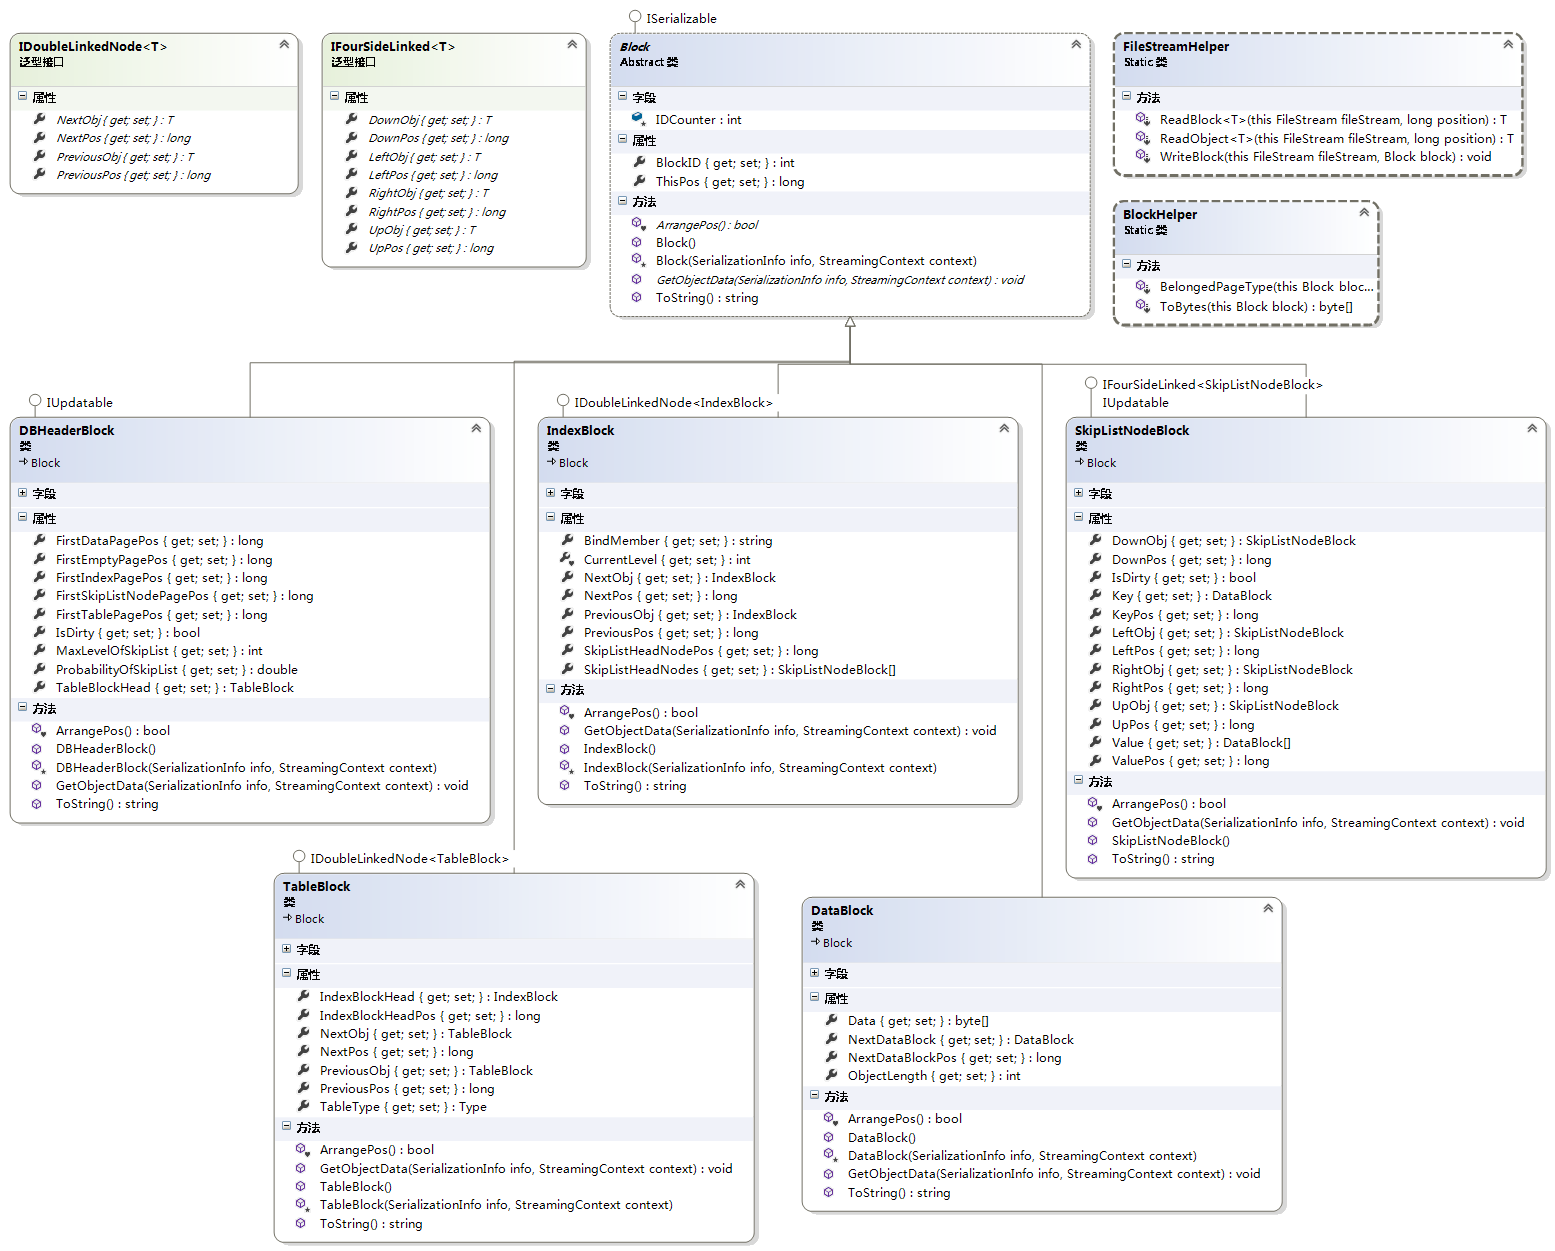
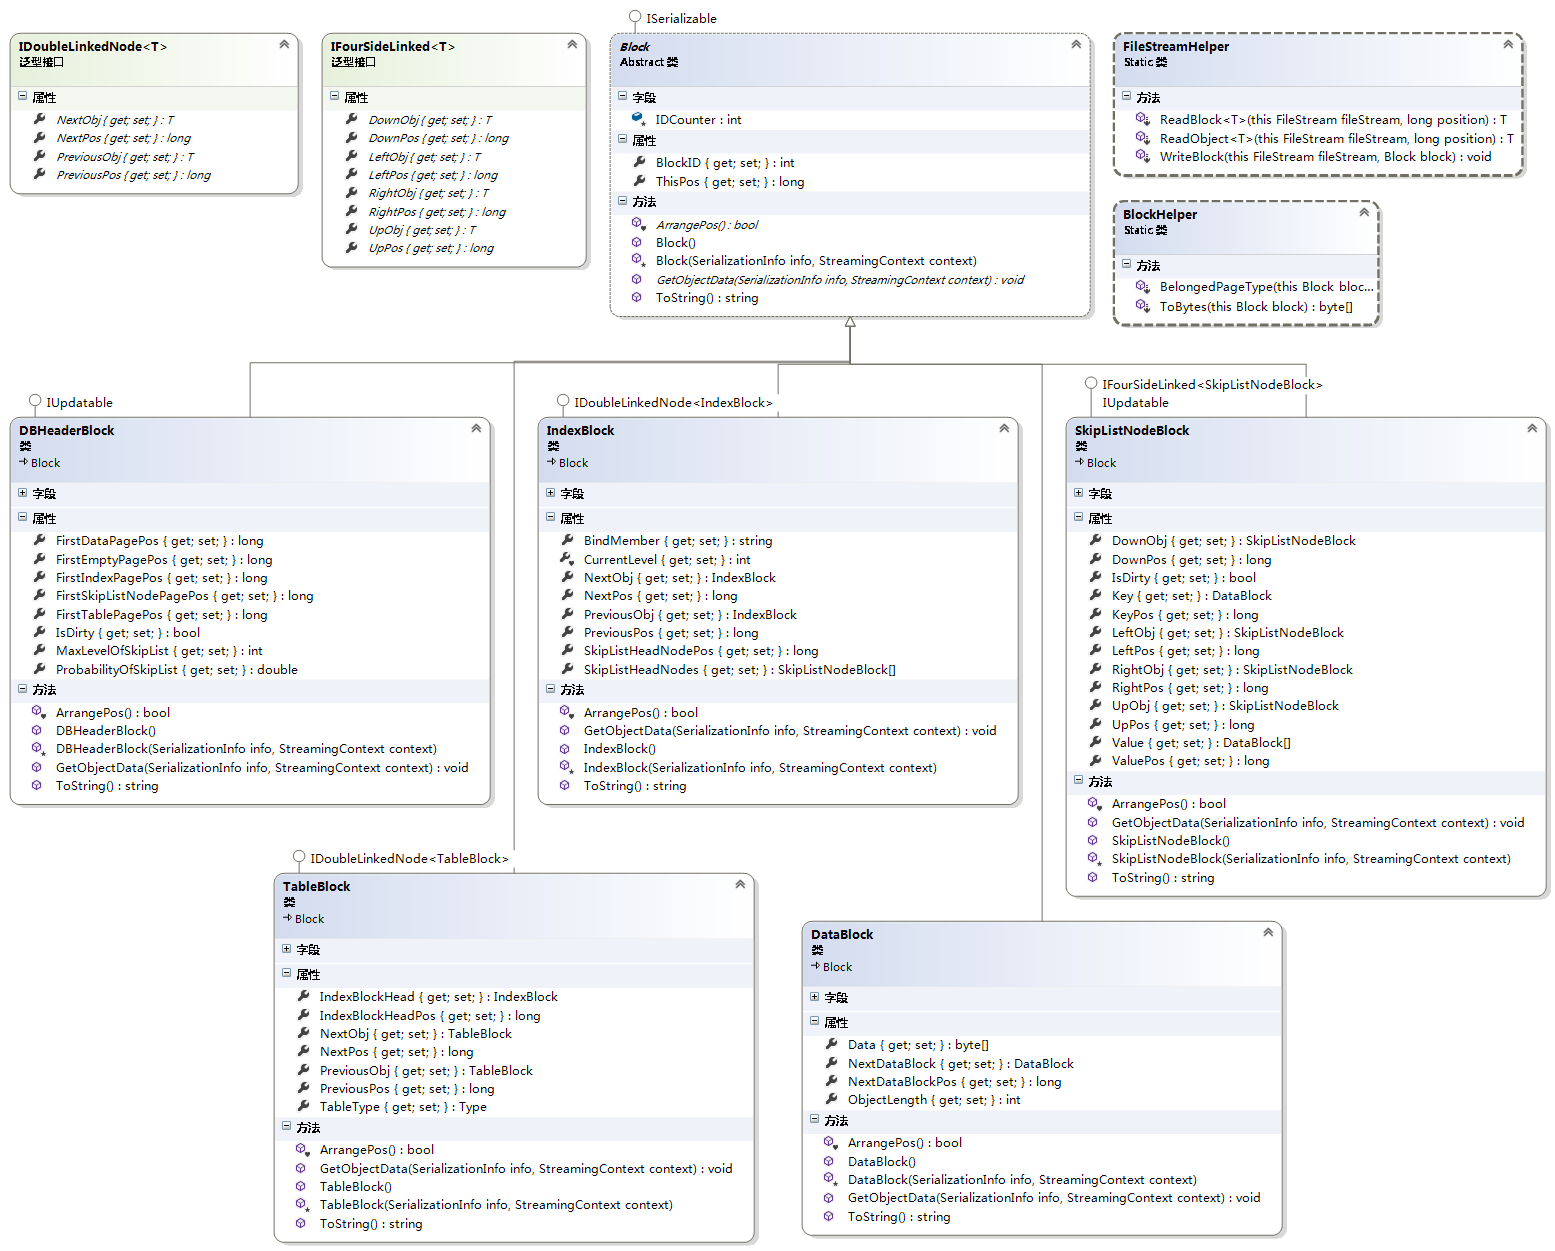
insert done 0

diff --git a/SharpFileDB/Utilities/IndexBlockHelper.cs b/SharpFileDB/Utilities/IndexBlockHelper.cs
@@ -41,7 +41,6 @@ namespace SharpFileDB.Utilities
             if (keyBytes.Length > Consts.maxDataBytes)
             { throw new Exception(string.Format("Toooo long is the key [{0}]", key)); }
             DataBlock dataBlockForKey = new DataBlock() { ObjectLength = keyBytes.Length, Data = keyBytes, };
-            db.transaction.Add(dataBlockForKey);// 加入事务，准备写入数据库。
             
             SkipListNodeBlock[] rightNodes = FindRightMostNodes(key, indexBlock, db);
 
@@ -58,8 +57,8 @@ namespace SharpFileDB.Utilities
                 rightNodes[0].RightObj = right;
                 rightKey = fs.ReadObject<IComparable>(right.KeyPos);
             }
-           if ((rightNodes[0].RightPos != 0)
-               && (rightKey.CompareTo(key) == 0))// key相等，说明Value相同。此处不再使用NGenerics的Comparer<TKey>.Default这种可指定外部比较工具的模式，是因为那会由于忘记编写合适的比较工具而带来隐藏地很深的bug。
+            if ((rightNodes[0].RightPos != 0)
+                && (rightKey.CompareTo(key) == 0))// key相等，说明Value相同。此处不再使用NGenerics的Comparer<TKey>.Default这种可指定外部比较工具的模式，是因为那会由于忘记编写合适的比较工具而带来隐藏地很深的bug。
             {
                 throw new Exception("Item Already In List");
             }
@@ -77,8 +76,9 @@ namespace SharpFileDB.Utilities
                     indexBlock.CurrentLevel = newLevel;
                 }
 
+                List<SkipListNodeBlock> nodeList = new List<SkipListNodeBlock>();
                 SkipListNodeBlock newNode = new SkipListNodeBlock() { Key = dataBlockForKey, Value = dataBlocksForValue, };
-                db.transaction.Add(newNode);// 加入事务，准备写入数据库。
+                nodeList.Add(newNode);
 
                 // Insert the item in the first level
                 //newNode.Right = rightNodes[0].Right;
@@ -93,13 +93,17 @@ namespace SharpFileDB.Utilities
                 {
                     previousNode = newNode;
                     newNode = new SkipListNodeBlock() { Key = dataBlockForKey, Value = dataBlocksForValue, };
-                    db.transaction.Add(newNode);// 加入事务，准备写入数据库。
+                    nodeList.Add(newNode);
 
                     newNode.RightObj = rightNodes[i].RightObj;
                     rightNodes[i].RightObj = newNode;
 
                     newNode.DownObj = previousNode;
                 }
+                for (int i = nodeList.Count - 1; i >= 0; i--)
+                { db.transaction.Add(nodeList[i]); }// 加入事务，准备写入数据库。
+
+                db.transaction.Add(dataBlockForKey);// 加入事务，准备写入数据库。
             }
 
             //    //itemsCount++;// 有的在内存，有的在文件，因此itemsCount不好使了。

diff --git a/SharpFileDB/FileDBContext.cs b/SharpFileDB/FileDBContext.cs
@@ -50,7 +50,8 @@ namespace SharpFileDB
             DBHeaderBlock headerBlock = fileStream.ReadBlock<DBHeaderBlock>(0);
             this.headerBlock = headerBlock;
             // 准备数据库表块，保存到字典。
-            TableBlock currentTableBlock = headerBlock.TableBlockHead;
+            TableBlock currentTableBlock = fileStream.ReadBlock<TableBlock>(fileStream.Position); //headerBlock.TableBlockHead;
+            this.tableBlockHead = currentTableBlock;
             while (currentTableBlock.NextPos != 0)
             {
                 TableBlock tableBlock = fileStream.ReadBlock<TableBlock>(currentTableBlock.NextPos);
@@ -122,6 +123,8 @@ namespace SharpFileDB
                 headerBlock.MaxLevelOfSkipList = 32;
                 headerBlock.ProbabilityOfSkipList = 0.5;
                 fs.WriteBlock(headerBlock);
+                TableBlock tableBlockHead = new TableBlock() { ThisPos = fs.Length, };
+                fs.WriteBlock(tableBlockHead);
                 //byte[] bytes = headerBlock.ToBytes();
                 //fs.Write(bytes, 0, bytes.Length);
                 //byte[] leftSpace = new byte[Consts.pageSize - bytes.Length];
@@ -142,12 +145,17 @@ namespace SharpFileDB
             Type type = item.GetType();
             if (!this.tableBlockDict.ContainsKey(type))// 添加表和索引数据。
             {
-                TableBlock tableBlock = new TableBlock();
-                this.transaction.Add(tableBlock);// 加入事务，准备写入数据库。
-                tableBlock.TableType = type;
                 IndexBlock indexBlockHead = new IndexBlock();
+                TableBlock tableBlock = new TableBlock() { TableType = type, IndexBlockHead = indexBlockHead, };
+                tableBlock.NextObj = this.tableBlockHead.NextObj;// this.headerBlock.TableBlockHead.NextObj;
+                //this.headerBlock.TableBlockHead.NextObj = tableBlock;
+                this.tableBlockHead.NextObj = tableBlock;
+
+                //this.transaction.Add(this.headerBlock.TableBlockHead);// 加入事务，准备写入数据库。
+                this.transaction.Add(this.tableBlockHead);// 加入事务，准备写入数据库。
+                this.transaction.Add(tableBlock);// 加入事务，准备写入数据库。
                 this.transaction.Add(indexBlockHead);// 加入事务，准备写入数据库。
-                tableBlock.IndexBlockHead = indexBlockHead;
+                
                 Dictionary<string, IndexBlock> indexBlockDict = CreateIndexBlocks(type, indexBlockHead);
 
                 this.tableBlockDict.Add(type, tableBlock);
@@ -337,6 +345,8 @@ namespace SharpFileDB
         internal FileStream fileStream;
 
         internal DBHeaderBlock headerBlock;
+
+        internal TableBlock tableBlockHead;
 
         internal Transaction transaction;// = new Transaction(this);
 

diff --git a/SharpFileDB/Blocks/DBHeaderBlock.cs b/SharpFileDB/Blocks/DBHeaderBlock.cs
@@ -54,18 +54,18 @@ namespace SharpFileDB.Blocks
             return true;// 此类型比较特殊，应该在更新时立即指定各项文件指针。
         }
 
-        /// <summary>
-        /// <see cref="TableBlock"/>的头结点。
-        /// <para>头结点的<see cref="TableBlock.TableType"/>属性始终为空，所以<see cref="DBHeaderBlock"/>的序列化长度是不变的。</para>
-        /// </summary>
-        public TableBlock TableBlockHead { get; set; }
+        ///// <summary>
+        ///// <see cref="TableBlock"/>的头结点。
+        ///// <para>头结点的<see cref="TableBlock.TableType"/>属性始终为空，所以<see cref="DBHeaderBlock"/>的序列化长度是不变的。</para>
+        ///// </summary>
+        //public TableBlock TableBlockHead { get; set; }
 
         /// <summary>
         /// 数据库文件的头部。应该放在数据库文件的最开始。
         /// </summary>
         public DBHeaderBlock()
         {
-            this.TableBlockHead = new TableBlock();
+            //this.TableBlockHead = new TableBlock();
         }
 
         const string strFirstTablePagePos = "T";
@@ -76,7 +76,7 @@ namespace SharpFileDB.Blocks
         const string strMaxLevel = "M";
         const string strProbability = "P";
 
-        const string strTableBlockHead = "H";
+        //const string strTableBlockHead = "H";
 
         public override void GetObjectData(System.Runtime.Serialization.SerializationInfo info, System.Runtime.Serialization.StreamingContext context)
         {
@@ -88,7 +88,7 @@ namespace SharpFileDB.Blocks
             info.AddValue(strMaxLevel, this.MaxLevelOfSkipList);
             info.AddValue(strProbability, this.ProbabilityOfSkipList);
 
-            info.AddValue(strTableBlockHead, this.TableBlockHead);
+            //info.AddValue(strTableBlockHead, this.TableBlockHead);
         }
 
         protected DBHeaderBlock(System.Runtime.Serialization.SerializationInfo info, System.Runtime.Serialization.StreamingContext context)
@@ -102,7 +102,7 @@ namespace SharpFileDB.Blocks
             this.MaxLevelOfSkipList = info.GetInt32(strMaxLevel);
             this.ProbabilityOfSkipList = info.GetDouble(strProbability);
 
-            this.TableBlockHead = (TableBlock)info.GetValue(strTableBlockHead, typeof(TableBlock));
+            //this.TableBlockHead = (TableBlock)info.GetValue(strTableBlockHead, typeof(TableBlock));
         }
 
 

diff --git a/SharpFileDB/Transaction.cs b/SharpFileDB/Transaction.cs
@@ -90,12 +90,15 @@ namespace SharpFileDB
                     bool done = block.ArrangePos();
                     if (done)
                     {
-                        byte[] bytes = block.ToBytes();
-                        if (bytes.Length > Consts.maxAvailableSpaceInPage)
-                        { throw new Exception("Block size is toooo large!"); }
-                        AllocPageTypes pageType = block.BelongedPageType();
-                        IList<AllocatedSpace> spaces = this.fileDBContext.Alloc(bytes.LongLength, pageType);
-                        block.ThisPos = spaces[0].position;
+                        if (block.ThisPos == 0)
+                        {
+                            byte[] bytes = block.ToBytes();
+                            if (bytes.Length > Consts.maxAvailableSpaceInPage)
+                            { throw new Exception("Block size is toooo large!"); }
+                            AllocPageTypes pageType = block.BelongedPageType();
+                            IList<AllocatedSpace> spaces = this.fileDBContext.Alloc(bytes.LongLength, pageType);
+                            block.ThisPos = spaces[0].position;
+                        }
 
                         arrangedBlocks.Add(block);
                     }

diff --git a/SharpFileDB/Blocks/TableBlock.cs b/SharpFileDB/Blocks/TableBlock.cs
@@ -31,10 +31,13 @@ namespace SharpFileDB.Blocks
         {
             bool allArranged = true;
 
-            if (this.IndexBlockHead != null && this.IndexBlockHead.ThisPos != 0)
-            { this.IndexBlockHeadPos = this.IndexBlockHead.ThisPos; }
-            else
-            { allArranged = false; }
+            if (this.IndexBlockHead != null)// 如果IndexBlockHead == null，则说明此块为TableBlock的头结点。头结点是不需要持有索引块的。
+            {
+                if (this.IndexBlockHead.ThisPos != 0)
+                { this.IndexBlockHeadPos = this.IndexBlockHead.ThisPos; }
+                else
+                { allArranged = false; }
+            }
 
             if (this.NextObj != null)
             {

diff --git a/SharpFileDB.TestConsole/Program.cs b/SharpFileDB.TestConsole/Program.cs
@@ -35,7 +35,7 @@ namespace SharpFileDB.TestConsole
             Cat cat = new Cat();
             cat.KittyName = "kitty白";
             cat.Price = 12;
-            cat.FavoriteFood = new Food() { FoodName="小黄鱼", };
+            cat.FavoriteFood = new Food() { FoodName = "小黄鱼", };
             cat.HeadPortrait = Image.FromFile(@"CatHeadPortrait.png");
             db.Insert(cat);
 
